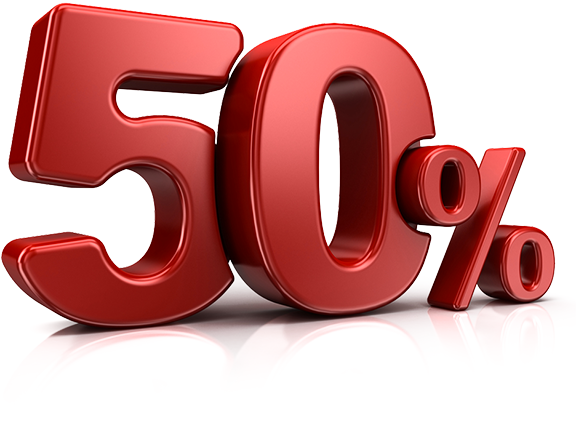
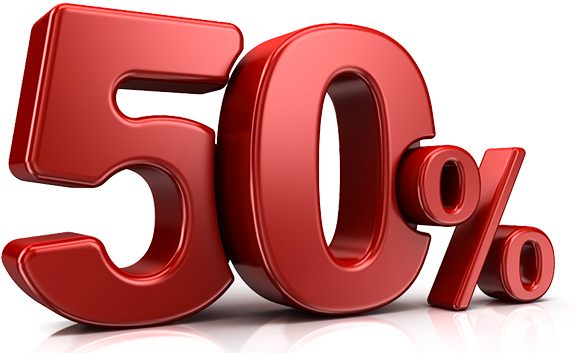
Update 50sale image to remove empty space under

diff --git a/styles/style.scss b/styles/style.scss
@@ -177,7 +177,6 @@ button {
   border: 2px solid $dark-red;
 
   .discount-image {
-    height: 168px;
     width: 225px;
     margin: 5px 0;
     @include for-desktop{

diff --git a/styles/style.css b/styles/style.css
@@ -247,7 +247,6 @@ button {
 }
 
 .about-70s .discount-image {
-  height: 168px;
   width: 225px;
   margin: 5px 0;
 }
